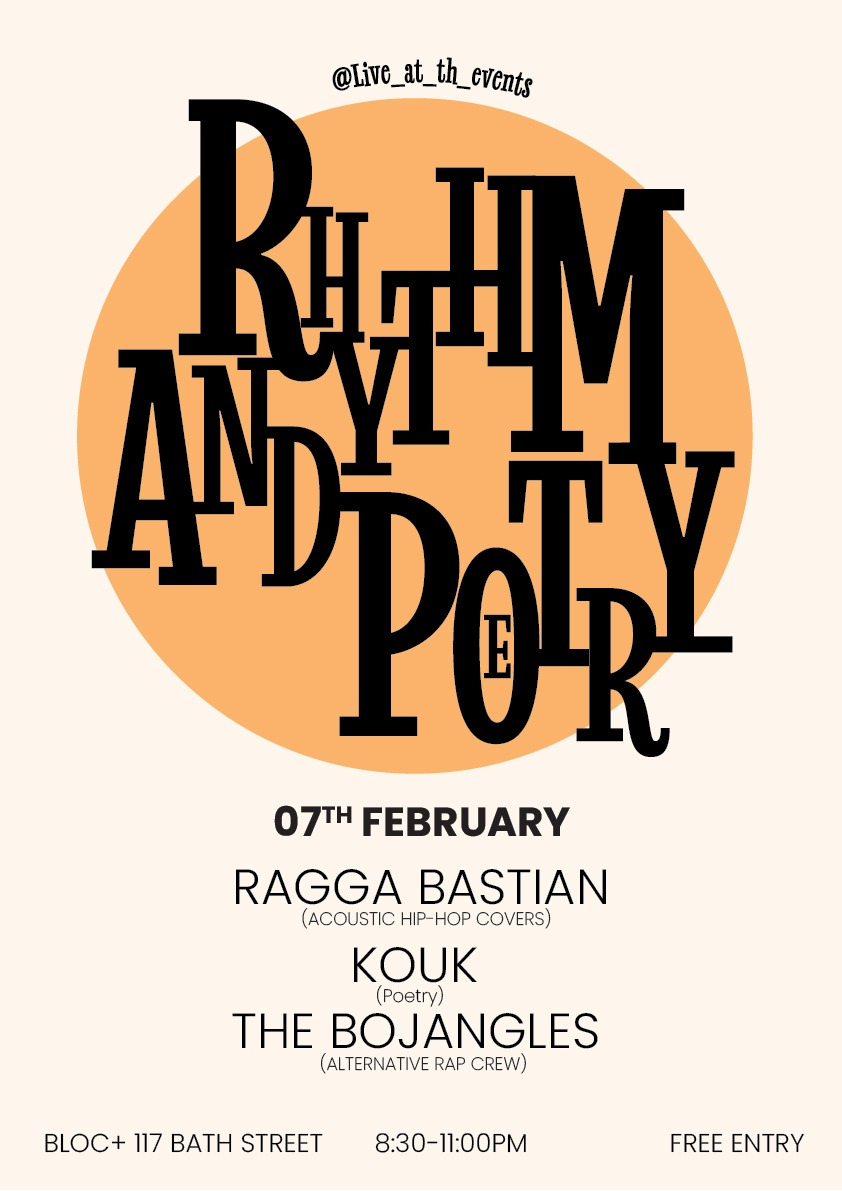
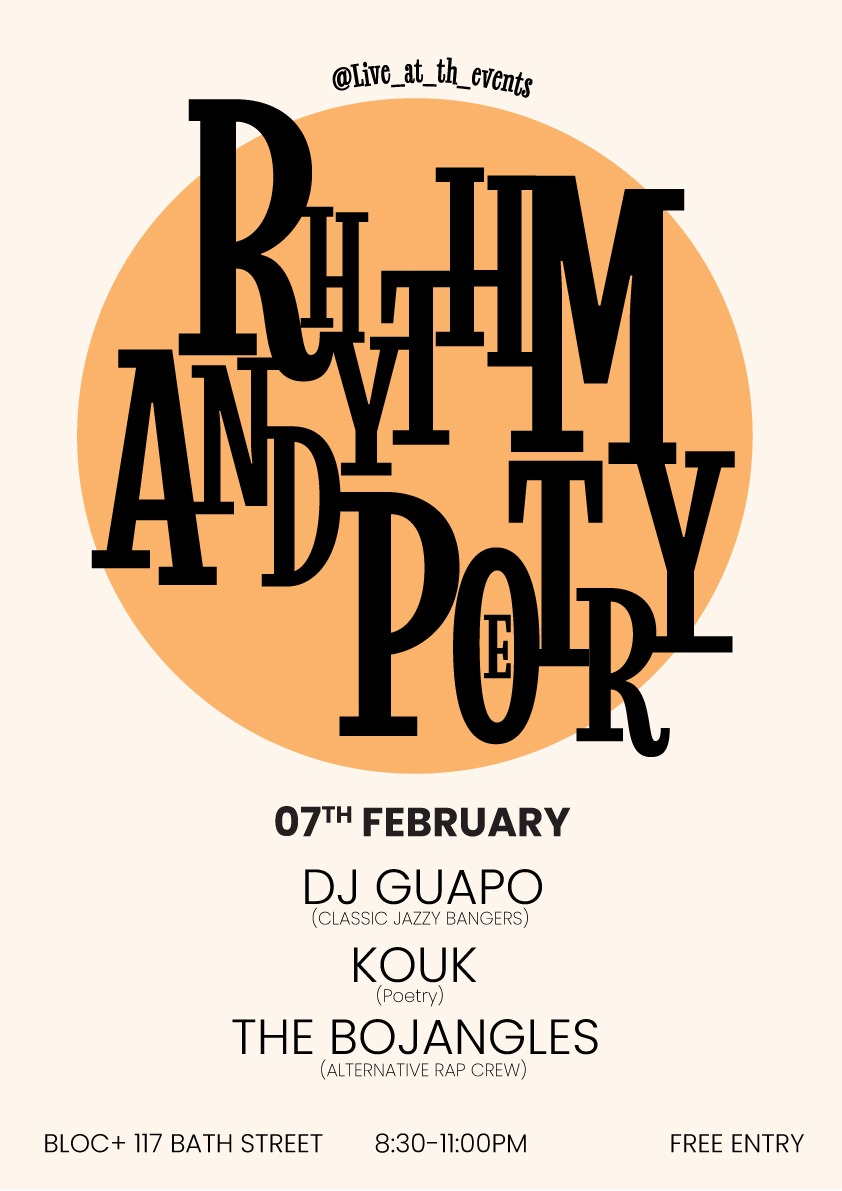
Adding updated gig poster

diff --git a/src/components/tourSection.js b/src/components/tourSection.js
@@ -14,18 +14,8 @@ export default function TourSection() {
                     <div className ={styles.gigDetailsContainer}>
                         <GigDetails 
                             venu="BLOC+"
-                            date="17/01/25 - 8PM"
-                            place="117 Bath St, Glasgow, G2 2SZ"
-                            lineUp="Ria Bronte, Ragga Bastian, The Bojangles"
-                            tickets="FREE ENTRY" 
-                        />
-                    </div>
-                    <div className ={styles.gigDetailsContainer}>
-                        <GigDetails 
-                            venu="BLOC+"
                             date="07/02/25 - 8PM"
                             place="117 Bath St, Glasgow, G2 2SZ"
-                            lineUp="TBC"
                             tickets="FREE ENTRY" 
                         />
                     </div>
@@ -36,15 +26,13 @@ export default function TourSection() {
                             className={styles.gigPosterShort}
                             src={gigPosterShort}
                             alt="Gig poster for the upcoming bojangles gig"
-                            fill={true} 
-                            objectFit="contain"                      
+                            fill={true}                   
                         />
                         <Image 
                             className={styles.gigPosterLong}
                             src={gigPosterLong}
                             alt="Gig poster for the upcoming bojangles gig"
-                            fill={true} 
-                            objectFit="contain"                      
+                            fill={true}                     
                         />
                     </div>
                 </div>

diff --git a/src/components/tourSection.module.css b/src/components/tourSection.module.css
@@ -1,6 +1,5 @@
 .tourSectionContainer {
-    height: 85vh;
-    width: 100%;
+    width: 100vw;
     display: flex;
     padding: 2.5% 10%;
 }
@@ -23,7 +22,7 @@
 
 .posterContentContainer {
     padding: 0.5rem;
-    height: 100%;
+    height: 85vh;
     width: 100%;
     display: flex;
 }
@@ -36,25 +35,33 @@
 
 .gigPosterLong {
     display: none;
+    object-fit: contain;
 }
 
 @media screen and (max-width: 1000px),
        screen and (min-height: 1000px) {
     .tourSectionContainer {
-        height: 100vh;
         flex-direction: column-reverse;
     }
 
     .posterContentContainer {
+        height: 50vh;
         justify-content: center;
         align-items: center;
     }
 
+    .gigPosterShort {
+        object-fit: contain;
+    }
+}
+
+@media (max-width: 600px) {
     .gigPosterShort {
         display: none;
     }
 
     .gigPosterLong {
         display: block;
+        object-fit: contain;
     }
 }

diff --git a/src/components/gigDetails.js b/src/components/gigDetails.js
@@ -6,7 +6,6 @@ export default function GigDetails({venu, date, place, lineUp, tickets, ticketLi
             <h1>VENUE: {venu}</h1>
             <h3>DATE: {date}</h3>
             <h3>PLACE: {place}</h3>
-            <h3>LINE UP: {lineUp}</h3>
             <div className={styles.ticketDetails}>
                 { ticketLink ? (
                     <h3>TICKETS: <a href={ticketLink}>Click Here</a></h3>
